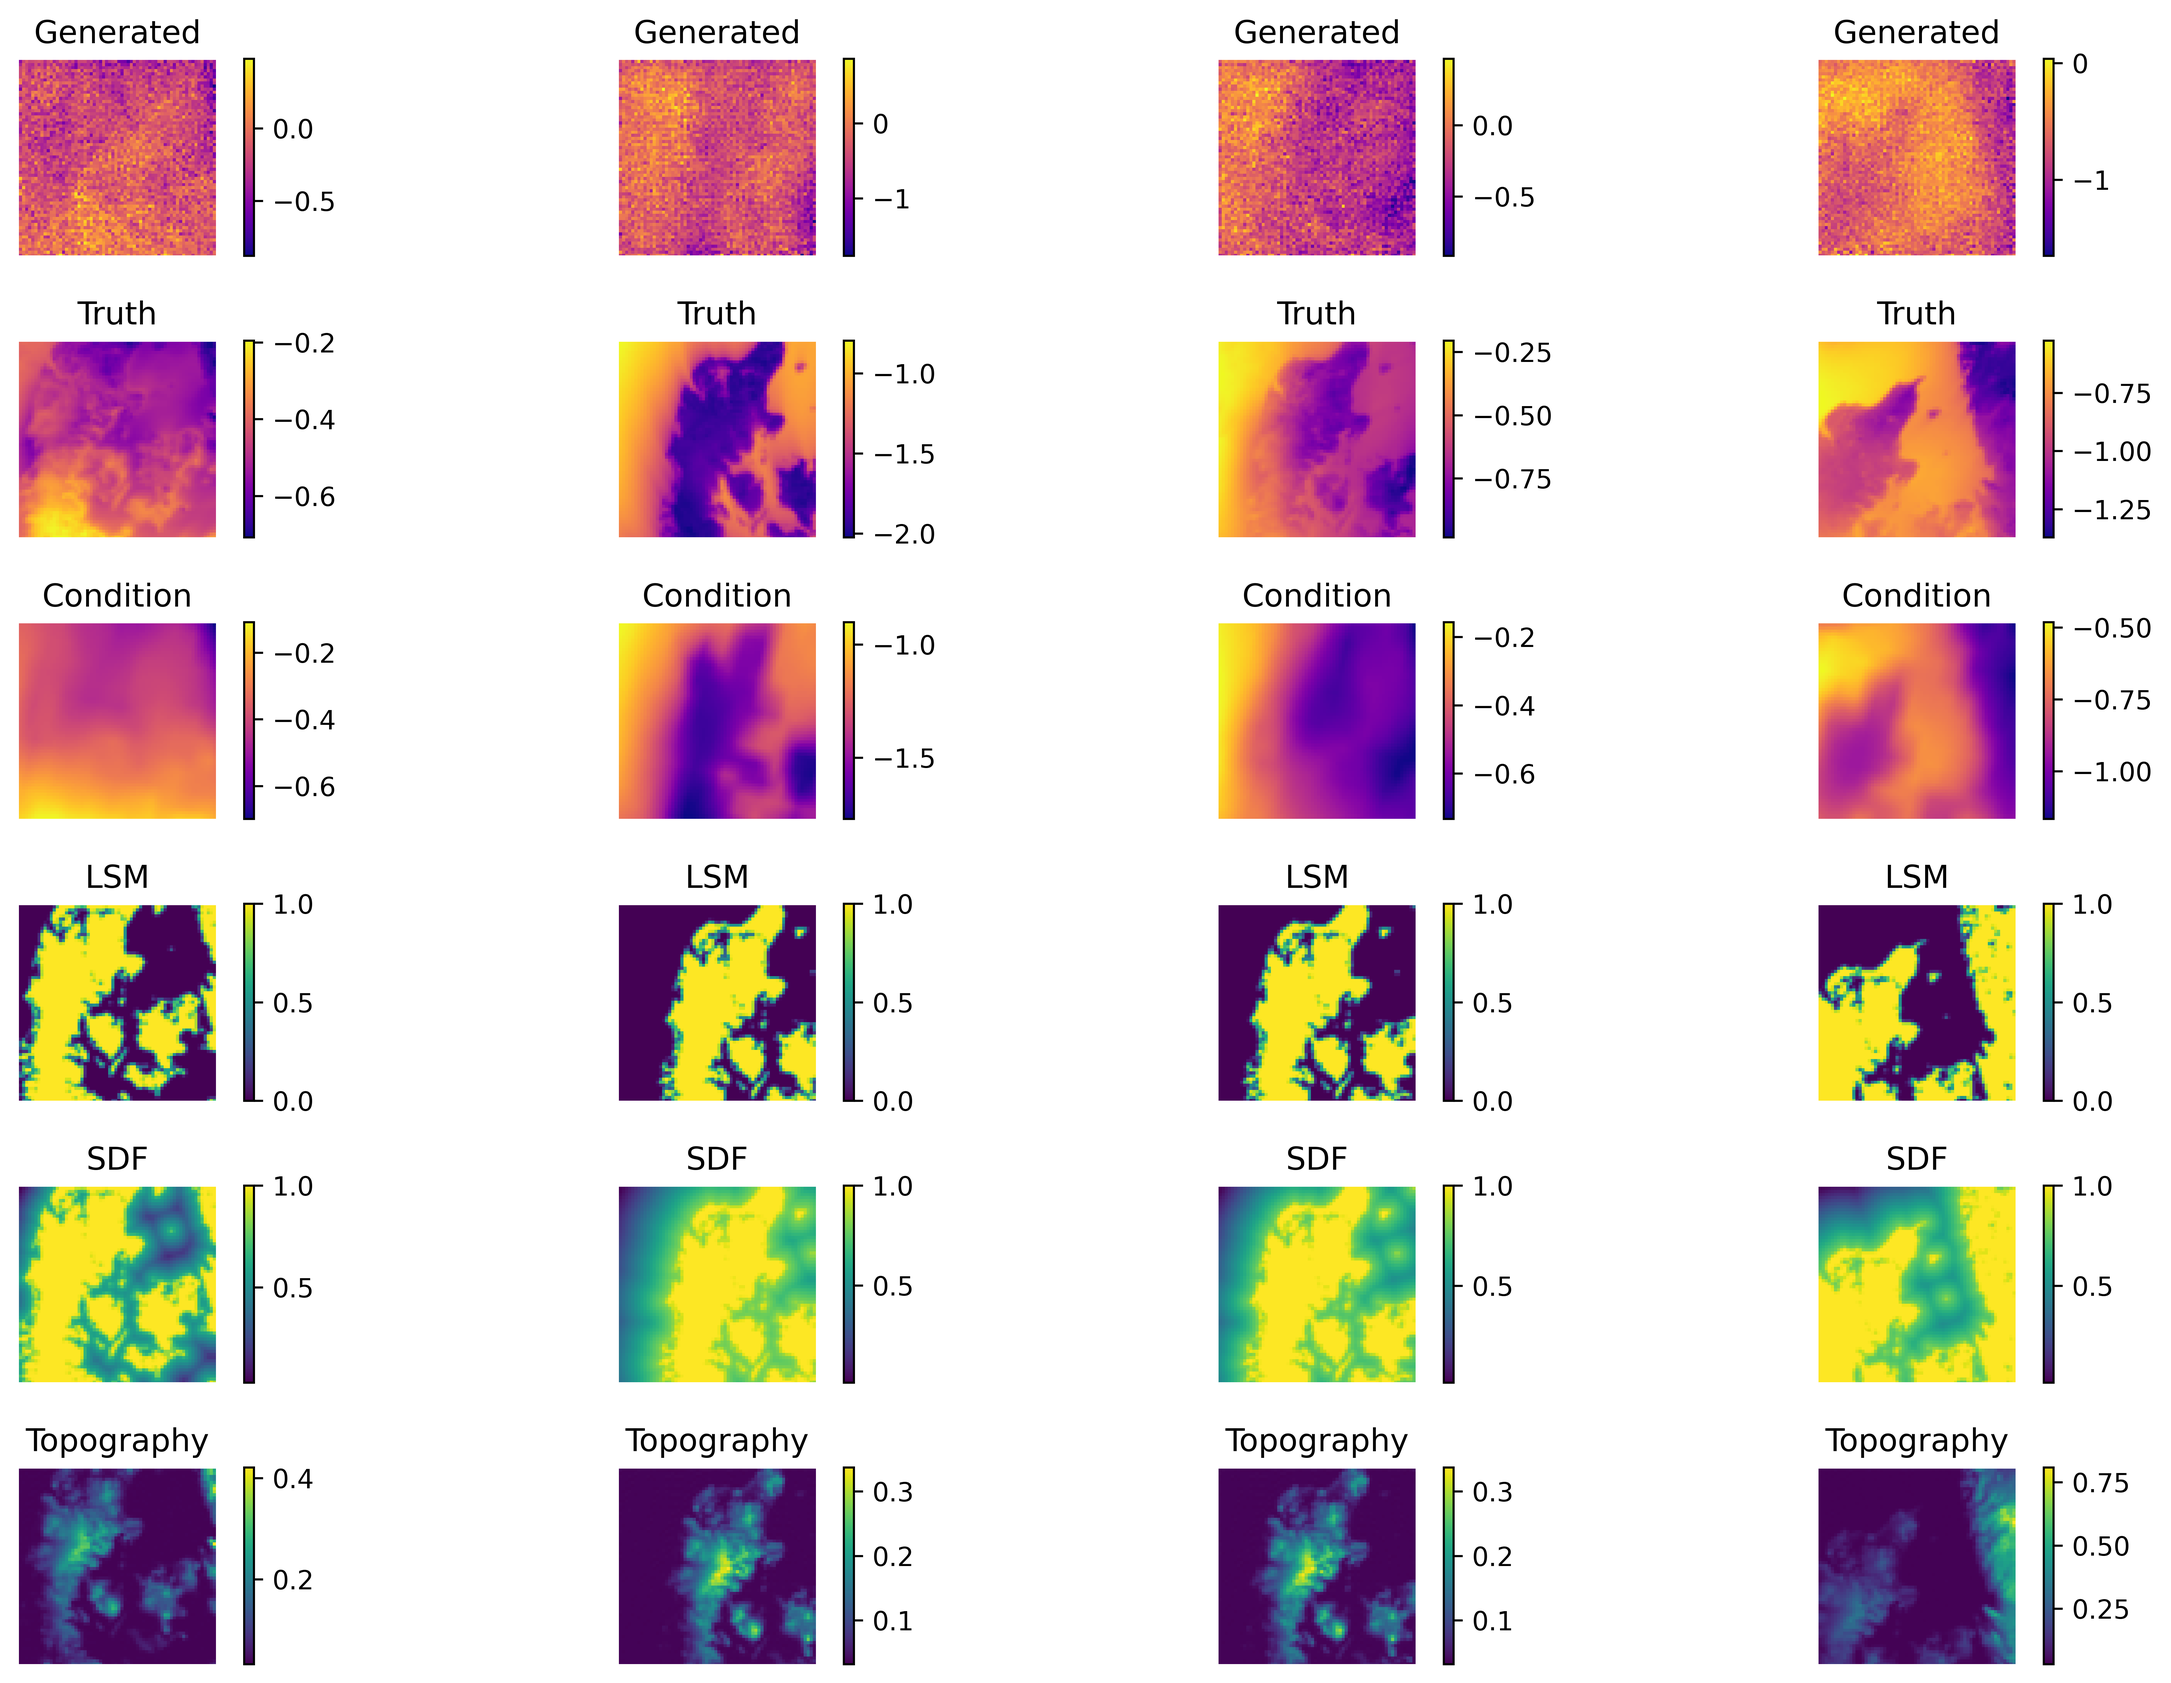
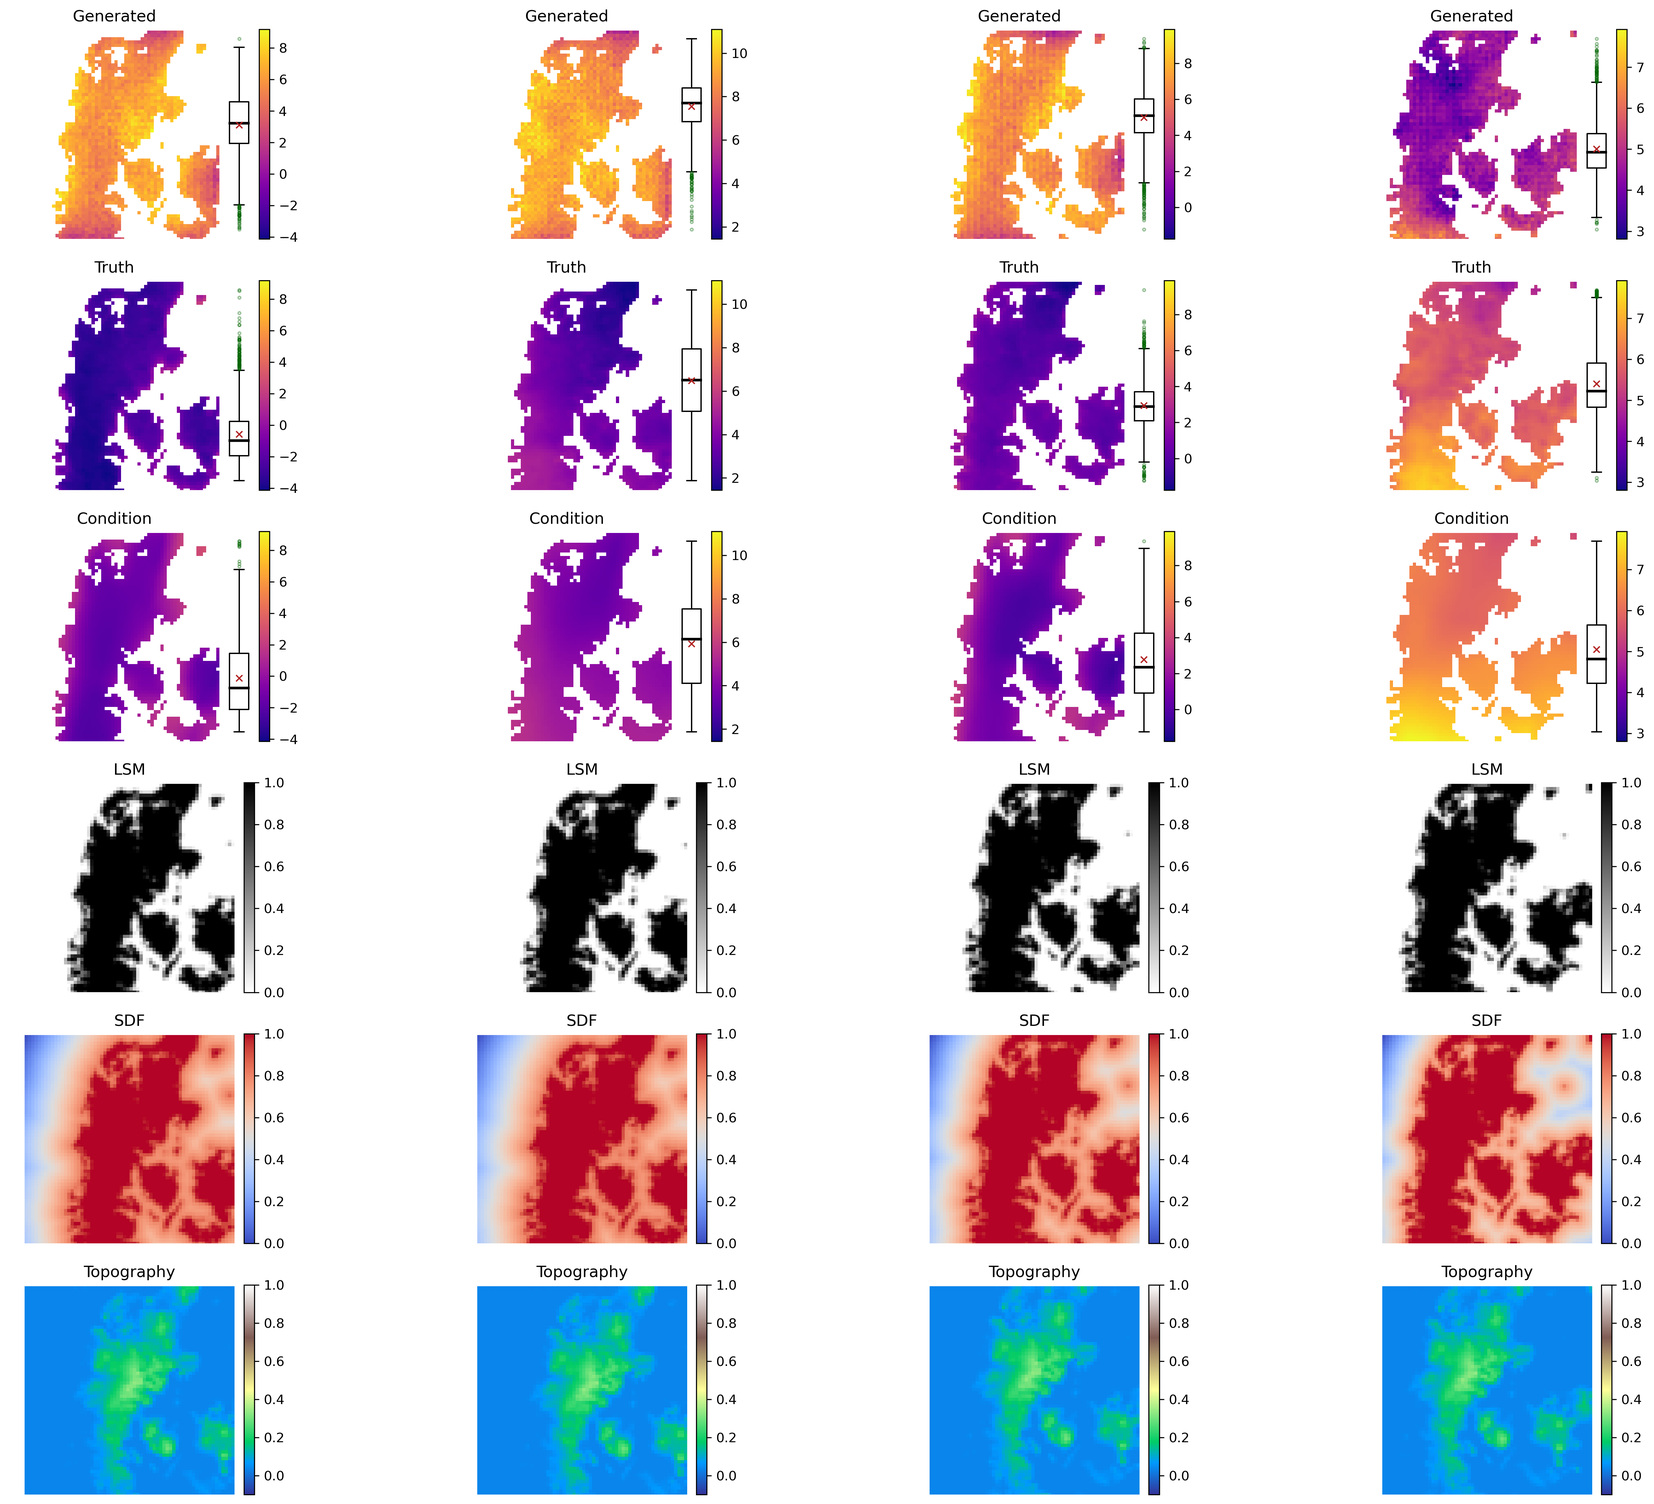
Plotting updates to main_sbgm.py

diff --git a/plotting_utils.py b/plotting_utils.py
@@ -1,0 +1,41 @@
+'''
+    This file contains utility functions for plotting.
+
+    Functions:
+        - plot_dataset: Plots the images in the dataset. Can plot LSM, Topography, SDF, truth, condition and prediction.
+        - plot_psds: Plots the power spectral densities of the given images. Can compare truth, condition and prediction.
+        - plot_psd: Plots the power spectral density of a single image.
+'''
+
+import numpy as np
+import matplotlib.pyplot as plt
+import matplotlib as mpl
+
+def plot_dataset(data_dict, num_images=5, figsize=(15, 15), cmap='viridis', title=None, save_path=None):
+    '''
+    Plots the images in the dataset. Can plot LSM, Topography, SDF, truth, condition and prediction.
+
+    Args:
+        data_dict (dict): Dictionary containing the dataset.
+        num_images (int): Number of images to plot.
+        figsize (tuple): Size of the figure.
+        cmap (str): Colormap to use.
+        title (str): Title of the plot.
+        save_path (str): Path to save the plot.
+    '''
+    fig, axs = plt.subplots(3, num_images, figsize=figsize)
+    fig.suptitle(title, fontsize=16)
+    for i in range(num_images):
+        axs[0, i].imshow(data_dict['lsm'][i], cmap=cmap)
+        axs[0, i].set_title('LSM')
+        axs[0, i].axis('off')
+        axs[1, i].imshow(data_dict['topo'][i], cmap=cmap)
+        axs[1, i].set_title('Topography')
+        axs[1, i].axis('off')
+        axs[2, i].imshow(data_dict['sdf'][i], cmap=cmap)
+        axs[2, i].set_title('SDF')
+        axs[2, i].axis('off')
+    plt.tight_layout()
+    if save_path:
+        plt.savefig(save_path)
+    plt.show()

diff --git a/launch.py b/launch.py
@@ -62,6 +62,7 @@ def launch_from_args():
     parser.add_argument('--show_figs', type=str2bool, default=False, help='Whether to show the figures')
     parser.add_argument('--show_both_orig_scaled', type=str2bool, default=False, help='Whether to show both the original and scaled data')
     parser.add_argument('--transform_back_bf_plot', type=str2bool, default=True, help='Whether to transform back before plotting')
+    parser.add_argument('--show_ocean', type=str2bool, default=False, help='Whether to show the ocean pixels in plots')
     parser.add_argument('--epochs', type=int, default=500, help='The number of epochs')
     parser.add_argument('--batch_size', type=int, default=16, help='The batch size')
     parser.add_argument('--last_fmap_channels', type=int, default=512, help='The number of channels in the last feature map')
